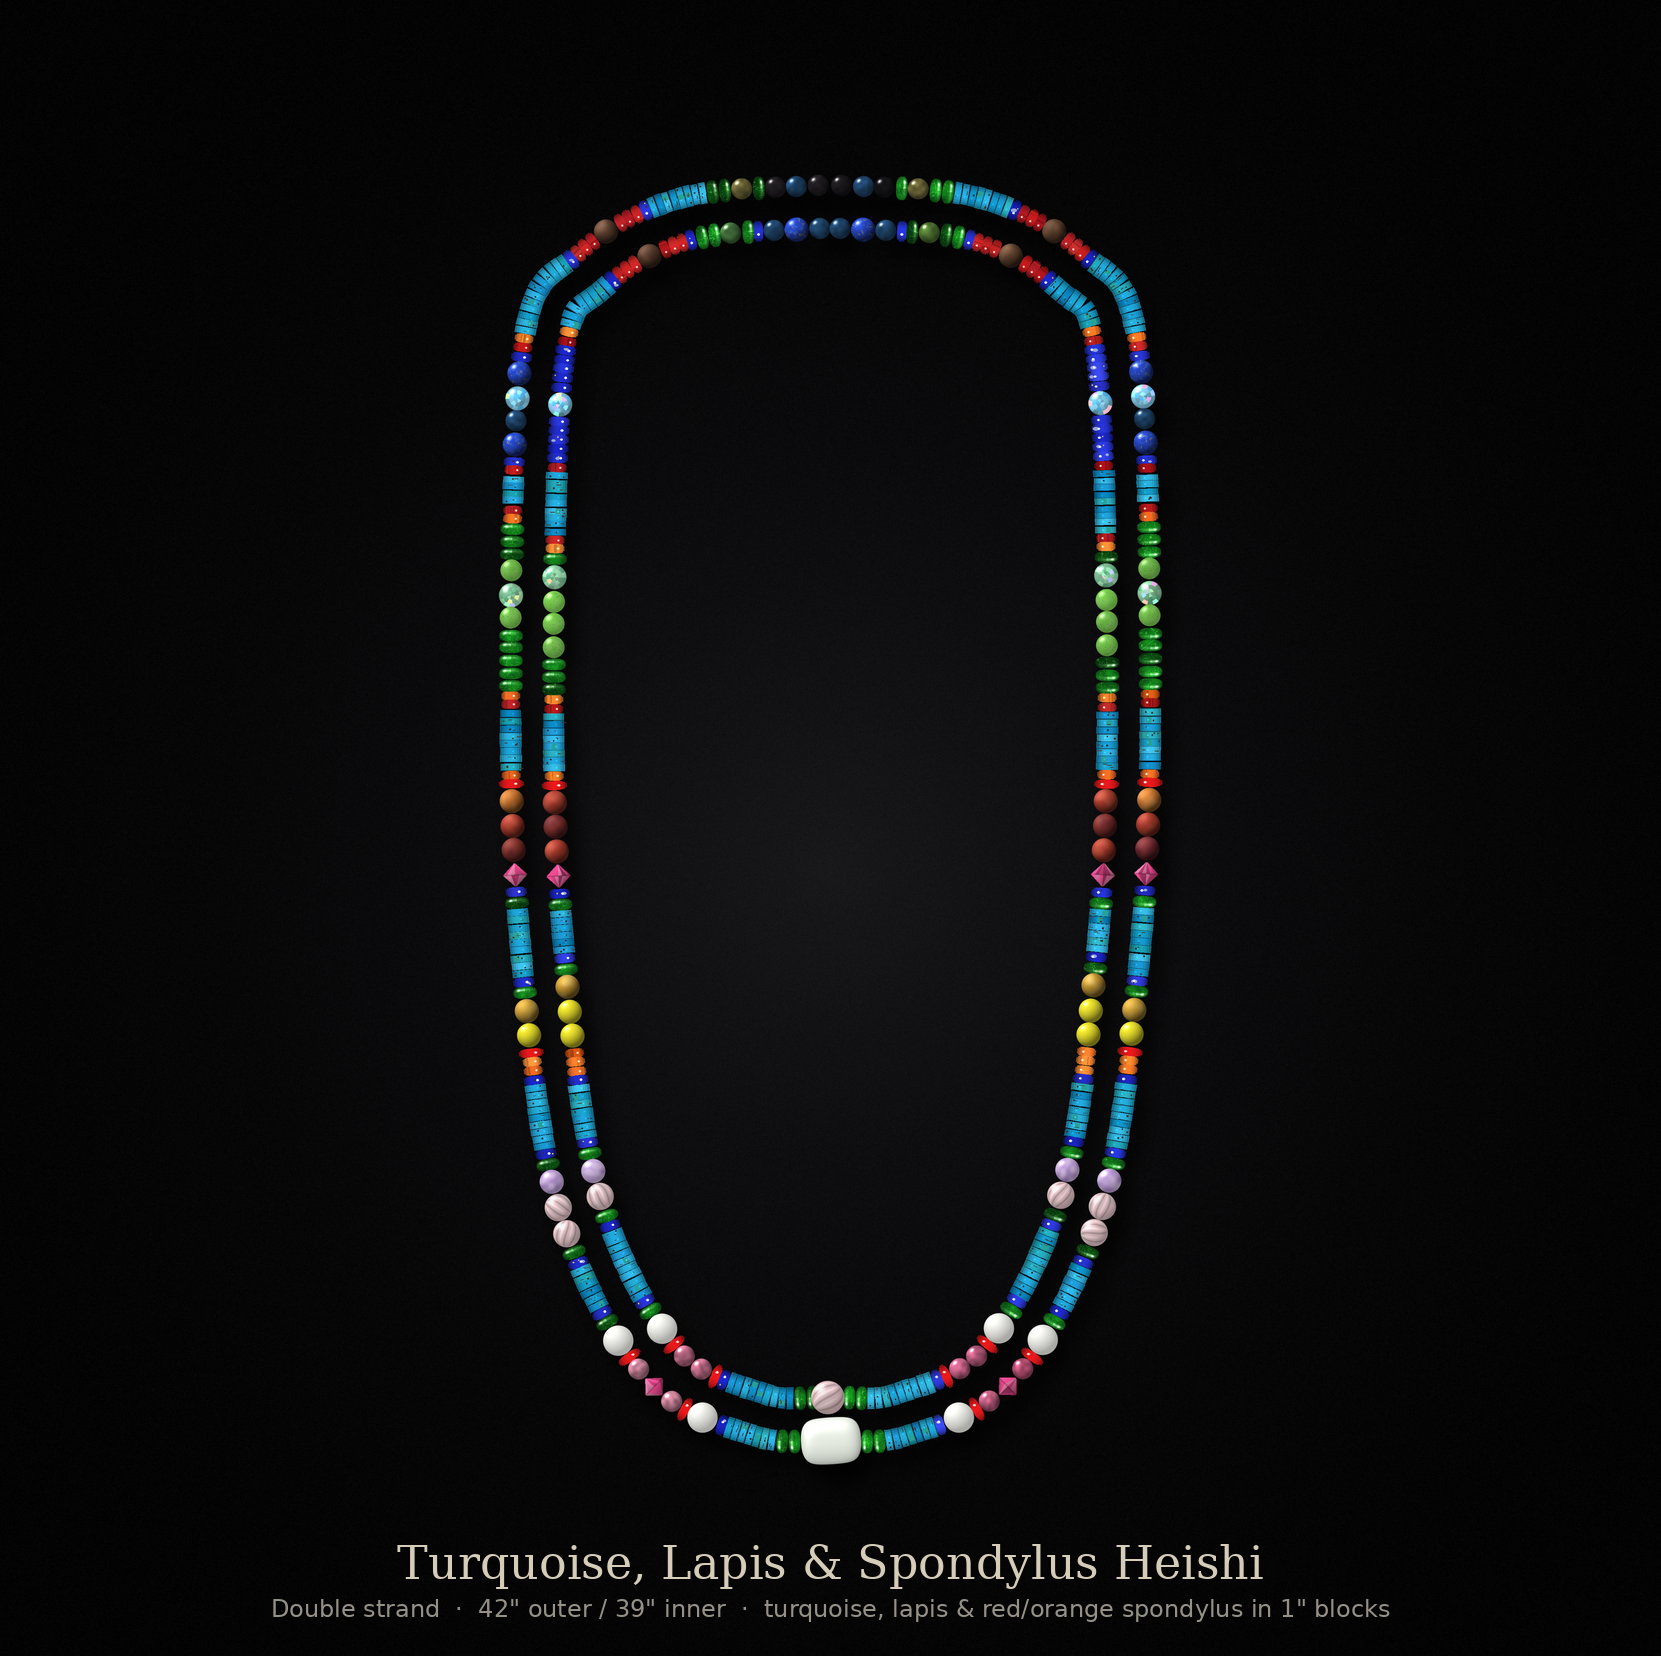
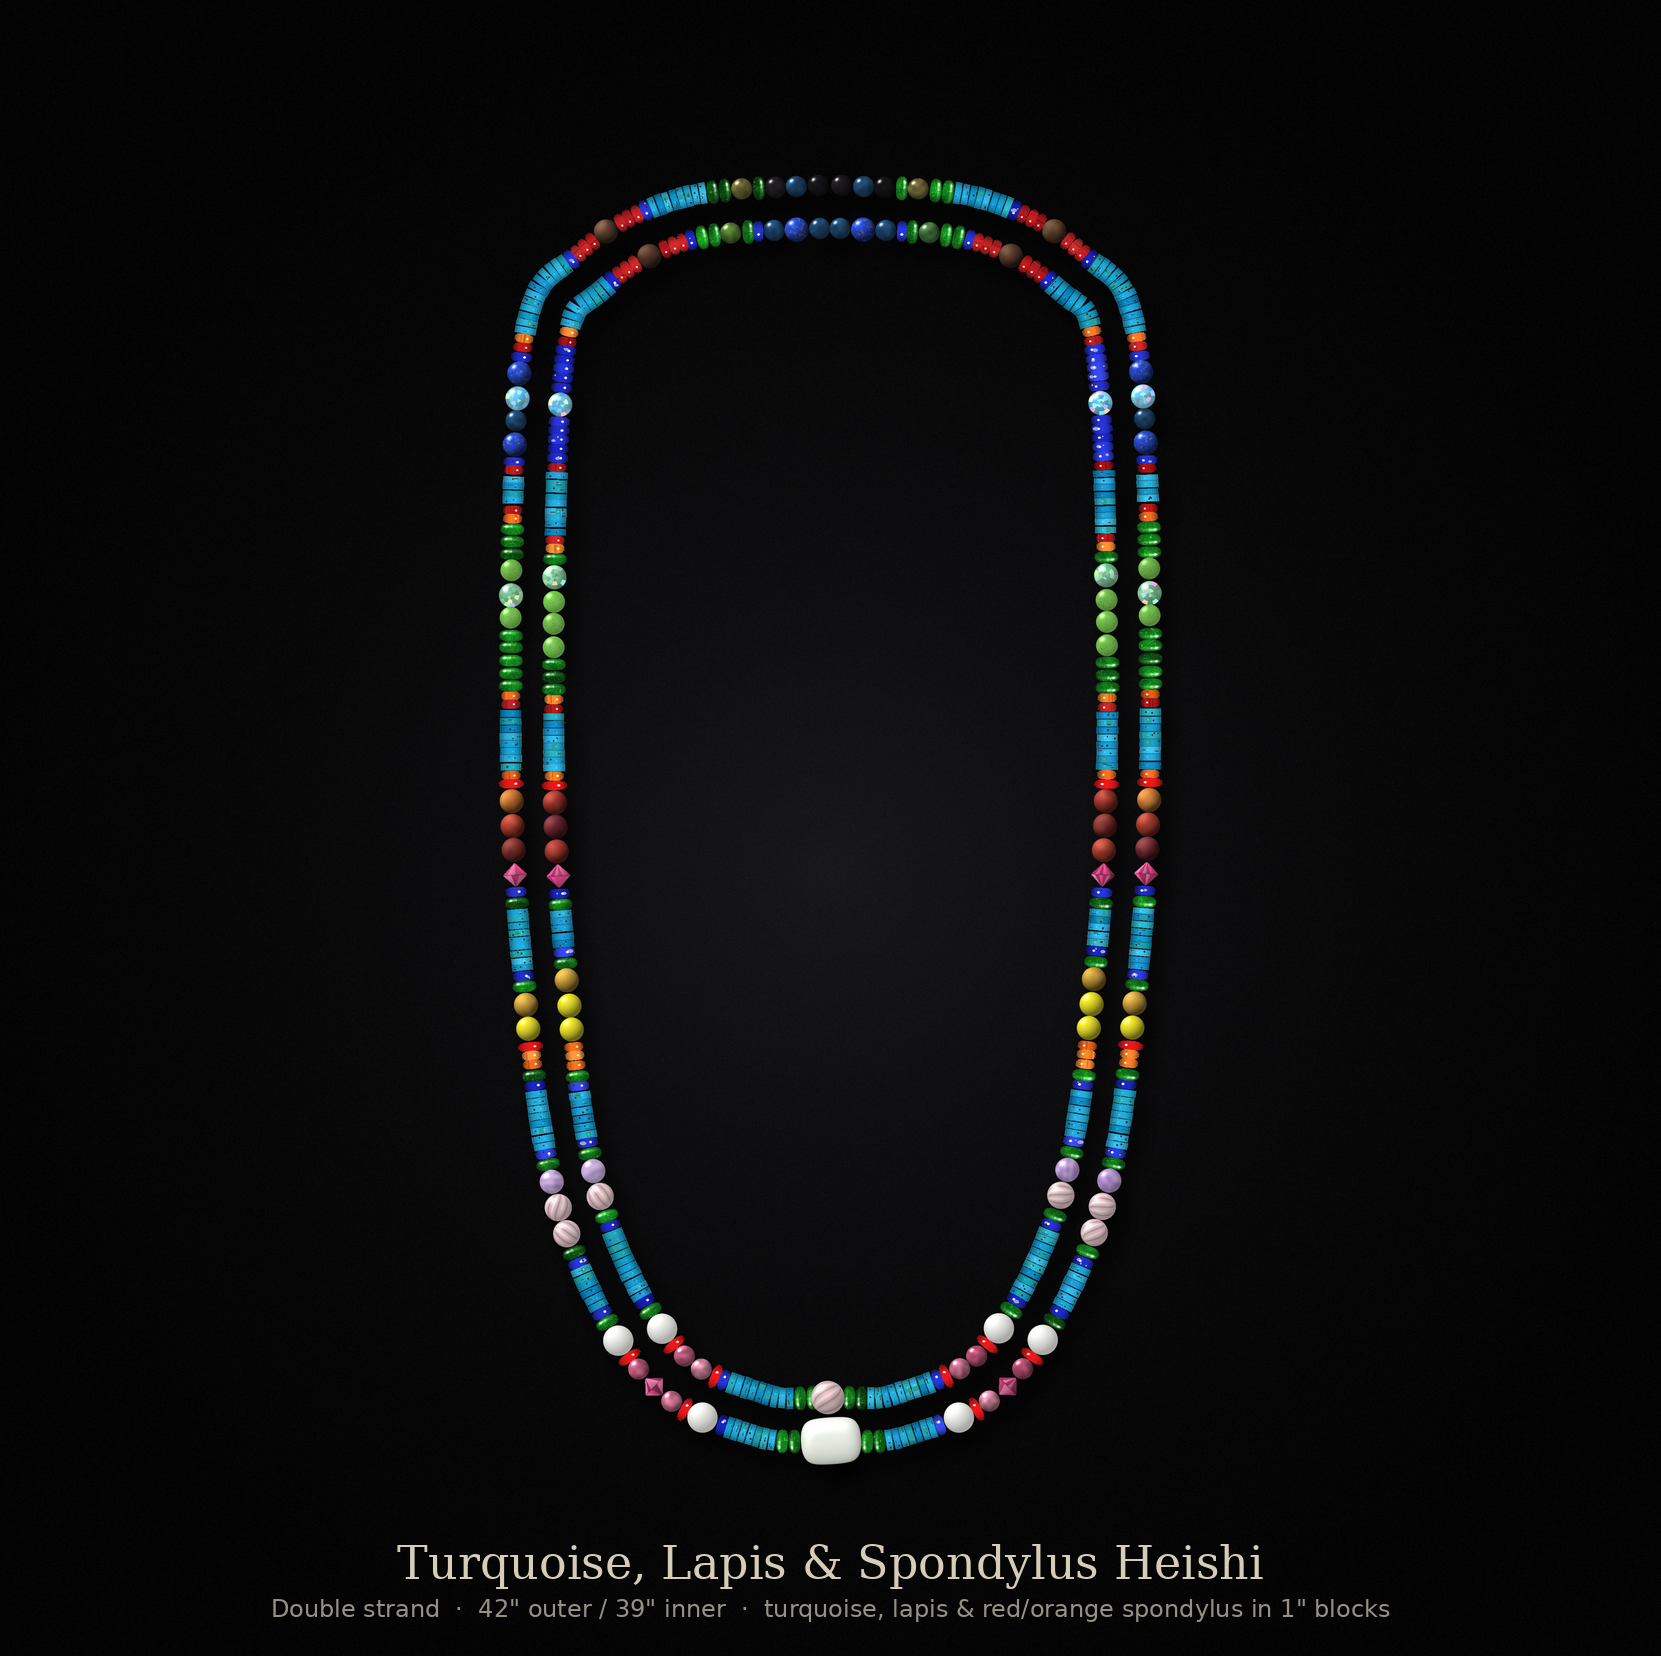
Version 5: chrome diopside at the bottom of the yellow band
Claude-Session: https://claude.ai/code/session_014be1vF4Rdf8sv9Si75Gudv

diff --git a/necklace/render_necklace.py b/necklace/render_necklace.py
@@ -1032,6 +1032,8 @@ if V4:
         assert all(b[1] == "orange" for b in BANDS[3])
         BANDS[3] = tuple(b[:1] + ["diop"] + b[2:] for b in BANDS[3])   # chrome diopside instead of orange atop the yellow mookaite
         assert all(b[2] == "mookyel" for b in BANDS[3])
+        assert all(b[-1] == "lapisH" and b[-2] == "orange" for b in BANDS[3])
+        BANDS[3] = tuple(b[:-1] + ["diop", "lapisH"] for b in BANDS[3])   # chrome diopside between the bottom orange and the lapis
         # yellow band moves down, between the mookaite (brown) band and the white band
         _ord = [0, 1, 2, 4, 5, 6, 3, 7, 8]
         BANDS = [BANDS[i] for i in _ord]
@@ -1140,6 +1142,7 @@ if V4:
                 widths[5] -= SZ["diop"]             # diopside under the mookaite band grows it downward...
                 widths[6] += SZ["orange"]           # ...into the room left by the orange removed from the top of the yellow band
                 widths[6] -= SZ["diop"] - SZ["orange"]   # yellow band's top diopside (1 mm more than the orange it replaced)
+                widths[6] -= SZ["diop"]             # yellow band's bottom diopside
                 widths[8] -= SZ["diop"]             # diopside above the white opal: band grows upward, room from the neck
                 widths[3] -= SZ["orange"]           # orange atop the blue band: room from the neck lapis
                 if st == 1:
@@ -1213,6 +1216,9 @@ if V4:
                 widths[6] -= SZ["orange"]
                 widths[6] += SZ["diop"] - SZ["orange"]
                 gaps[6] -= SZ["diop"] - SZ["orange"]     # ...taken from the turquoise run just above it (neck lapis is used up)
+                widths[6] += SZ["diop"]
+                gaps[6] -= SZ["diop"] / 2               # bottom diopside: half from the run above (band stays centred)...
+                gaps[7] -= SZ["diop"] / 2               # ...half from the run below
                 widths[8] += SZ["diop"]
                 _need = 6.0 + SZ["diop"] - SZ["orange"] + SZ["diop"]
                 if st == 1:
